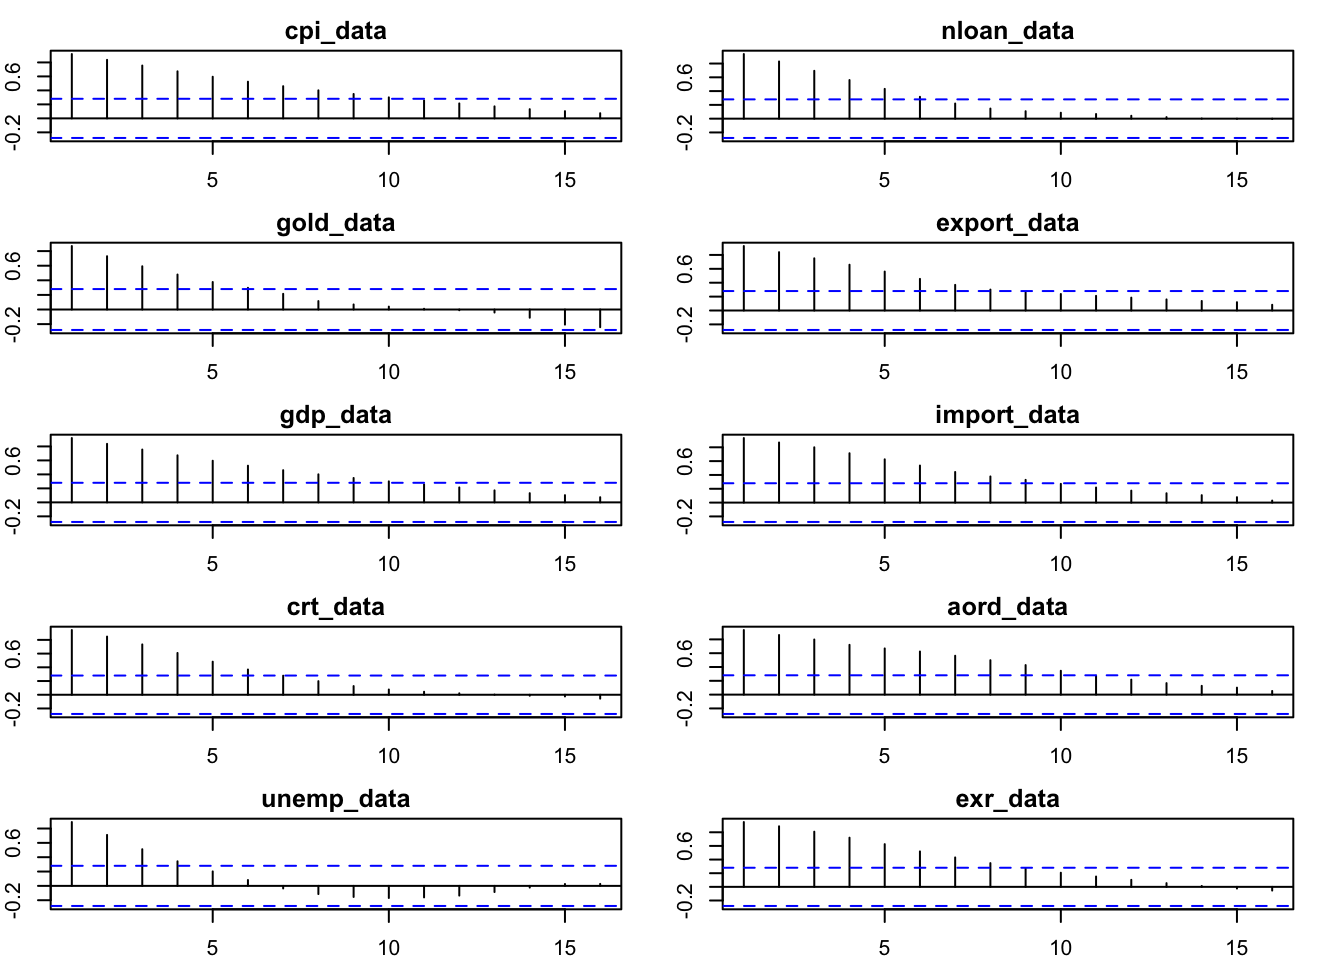
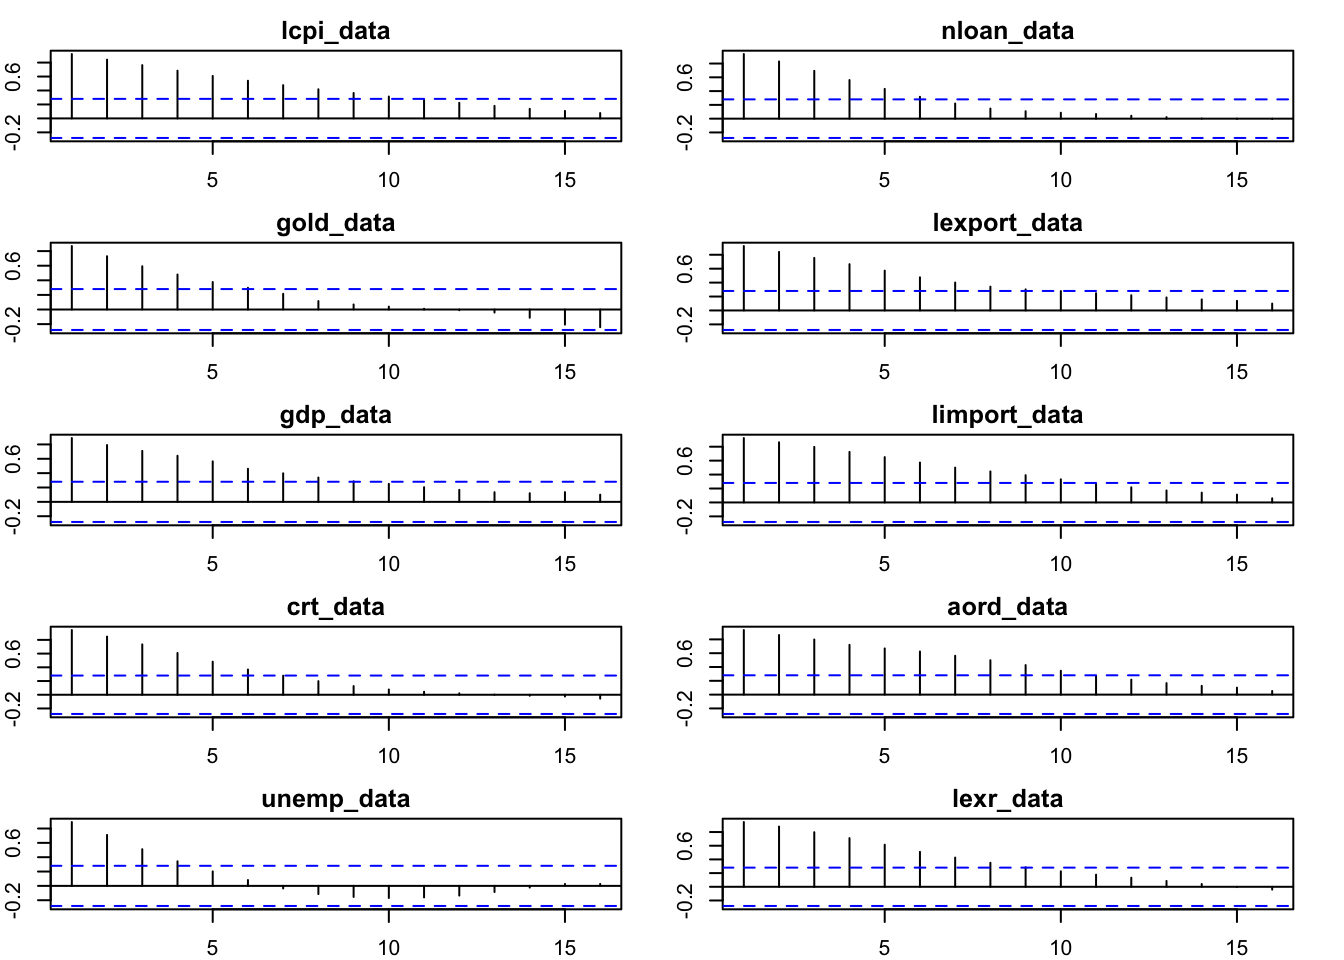
update website

diff --git a/docs/index.html b/docs/index.html
@@ -98,7 +98,11 @@ ul.task-list li input[type="checkbox"] {
   <li><a href="#introduction" id="toc-introduction" class="nav-link active" data-scroll-target="#introduction">Introduction</a>
   <ul class="collapse">
   <li><a href="#the-question-objective-and-motivation" id="toc-the-question-objective-and-motivation" class="nav-link" data-scroll-target="#the-question-objective-and-motivation">The question objective, and motivation</a></li>
-  <li><a href="#data-and-their-properties" id="toc-data-and-their-properties" class="nav-link" data-scroll-target="#data-and-their-properties">Data and their properties</a></li>
+  <li><a href="#data-and-their-properties" id="toc-data-and-their-properties" class="nav-link" data-scroll-target="#data-and-their-properties">Data and their properties</a>
+  <ul class="collapse">
+  <li><a href="#data-selection-and-rationale" id="toc-data-selection-and-rationale" class="nav-link" data-scroll-target="#data-selection-and-rationale">Data Selection and Rationale</a></li>
+  <li><a href="#data-transformation" id="toc-data-transformation" class="nav-link" data-scroll-target="#data-transformation">Data Transformation</a></li>
+  </ul></li>
   <li><a href="#the-model-and-hypothesis" id="toc-the-model-and-hypothesis" class="nav-link" data-scroll-target="#the-model-and-hypothesis">The model and hypothesis</a></li>
   <li><a href="#references" id="toc-references" class="nav-link" data-scroll-target="#references">References</a></li>
   </ul></li>
@@ -139,28 +143,38 @@ ul.task-list li input[type="checkbox"] {
 <h1>Introduction</h1>
 <section id="the-question-objective-and-motivation" class="level2">
 <h2 class="anchored" data-anchor-id="the-question-objective-and-motivation">The question objective, and motivation</h2>
-<p><strong>Objective: </strong></p>
+<p><strong>Objective:</strong></p>
 <p>The purpose of this research is to explore the trend in Australia’s inflation rate over the next two years.</p>
-<p><strong>Question: </strong></p>
+<p><strong>Question:</strong></p>
 <p>Will Australia’s inflation rate fall back to the 2-3% inflation target range in 2025, and will it reach 2.5% in 2026?</p>
 <p>The Reserve Bank of Australia (RBA) forecasts that inflation will fall back to the target range of 2% to 3% by 2025 and reach the midpoint of this range in 2026. The purpose of the study is to forecast inflation over the next two years and assess the reasonableness of the RBA’s forecast. This is because we have observed a sharp rise in inflation to 7.8% during COVID-19, and in response the RBA implemented tightening monetary policy and increased interest rates starting in late 2022. Entering mid-to-late 2023, the pace of interest rate increases has slowed down. This research will help determine whether the RBA correctly assumed that its monetary policy measures have effectively suppressed inflation and expected that inflation will fall back to the target range over the next year.</p>
 </section>
 <section id="data-and-their-properties" class="level2">
 <h2 class="anchored" data-anchor-id="data-and-their-properties">Data and their properties</h2>
-<p><strong>Data Selection and</strong></p>
-<p>Direct Inflationary Indicators:</p>
+<section id="data-selection-and-rationale" class="level3">
+<h3 class="anchored" data-anchor-id="data-selection-and-rationale">Data Selection and Rationale</h3>
+<ul>
+<li><p><strong>Direct Inflationary Indicators:</strong></p>
 <p>1.<span class="math inline">\(cpi_i\)</span>: Consumer Price Index (CPI): Direct measure of inflation (from ABS)</p>
-<p>2.<span class="math inline">\(gold_i\)</span>: Gold price, indicate inflationary expectations (from yahoo finance)</p>
-<p>Economic Activity and Policy Indicators:</p>
+<p>2.<span class="math inline">\(gold_i\)</span>: Gold price, indicate inflationary expectations (from yahoo finance)</p></li>
+<li><p><strong>Economic Activity and Policy Indicators:</strong></p>
 <p>3.<span class="math inline">\(gdp_i\)</span>: Gross Domestic Product (GDP), reflect economic growth and demand-pull inflation (from ABS)</p>
 <p>4.<span class="math inline">\(crt_i\)</span>: Cash rate target, Indicate monetary policy stance which affects inflation (from RBA)</p>
-<p>5.<span class="math inline">\(unemp_i\)</span>: Unemployment rate, indicate the level of slack in the labor market, influencing wage-push inflation (from ABS)</p>
-<p>Market and External Trade Indicators:</p>
+<p>5.<span class="math inline">\(unemp_i\)</span>: Unemployment rate, indicate the level of slack in the labor market, influencing wage-push inflation (from ABS)</p></li>
+<li><p><strong>Market and External Trade Indicators:</strong></p>
 <p>6.<span class="math inline">\(nloan_i\)</span>: New loan commitments, reflect credit growth which can fuel economic activity and inflation (from ABS)</p>
 <p>7.<span class="math inline">\(export_i\)</span>: International exports, affect trade balance and currency strength, influencing imported inflation (from ABS)</p>
 <p>8.<span class="math inline">\(import_i\)</span>: International imports: Directly affect inflation through the cost of imported goods (from ABS)</p>
 <p>9.<span class="math inline">\(aord_i\)</span>: All Ordinaries Index (AORD), reflects investor confidence and economic activity which can be pre-emptive indicators of inflation (from yahoo finance)</p>
-<p>10.<span class="math inline">\(exr_i\)</span>: AUD/USD exchange rate, affects the price of imports and exports, contributing to inflation (from yahoo finance)</p>
+<p>10.<span class="math inline">\(exr_i\)</span>: AUD/USD exchange rate, affects the price of imports and exports, contributing to inflation (from yahoo finance)</p></li>
+</ul>
+</section>
+<section id="data-transformation" class="level3">
+<h3 class="anchored" data-anchor-id="data-transformation">Data Transformation</h3>
+<ul>
+<li><strong>Log Transformation</strong></li>
+</ul>
+<p>Based on the line graph of the original data below (Figure 1), we can observe that exponentially growing variables need to be linearized, such as <span class="math inline">\(cpi_i\)</span>, <span class="math inline">\(export_i\)</span>, <span class="math inline">\(import_i\)</span>, <span class="math inline">\(exr_i\)</span>. Therefore, its logarithmically transformed form will be used in the following analysis.</p>
 <div class="cell" data-layout-align="center">
 <div class="cell-output-display">
 <div class="quarto-figure quarto-figure-center">
@@ -170,6 +184,11 @@ ul.task-list li input[type="checkbox"] {
 </div>
 </div>
 </div>
+<p>Figure 1 Line graph of original data</p>
+<ul>
+<li><strong>Integration transformation</strong></li>
+</ul>
+<p>According to ACF plot for all data (Figure 2), we can see all data with autocorrelation. It suggests that the series is not white noise and might not be stationary. In this case, applying a differencing operation, such as a first difference (single-order integration), can help remove the autocorrelation and achieve stationary.</p>
 <div class="cell" data-layout-align="center">
 <div class="cell-output-display">
 <div class="quarto-figure quarto-figure-center">
@@ -179,7 +198,14 @@ ul.task-list li input[type="checkbox"] {
 </div>
 </div>
 </div>
+<p>Figure 2 ACF Plot for all data</p>
+<p>Considering the selection of the order of single-order integration, the unit root test (ADF test) is used and the p value is used to determine its significance. A small p-value means the null hypothesis is rejected (non-stationary).</p>
+<p>According to Table 1, we can see that <span class="math inline">\(cpi_i\)</span>, <span class="math inline">\(crt_i\)</span>, <span class="math inline">\(nloan_i\)</span> and <span class="math inline">\(limport_i\)</span> require more than second-order integration, while <span class="math inline">\(gold_i\)</span>, <span class="math inline">\(unemp_i\)</span>, <span class="math inline">\(lexport_i\)</span> require sencond-order integration, other variables require first-order integration (under 10% level of confidence and n in the table means larger than 2).</p>
 <div class="cell" data-layout-align="center">
+<div class="cell-output cell-output-stdout">
+<pre><code>          
+0.2378902 </code></pre>
+</div>
 <div class="cell-output-display">
 <div class="table-responsive">
 <table class="table table-striped table-hover table-bordered table-sm small" data-quarto-postprocess="true">
@@ -194,74 +220,74 @@ ul.task-list li input[type="checkbox"] {
 </thead>
 <tbody>
 <tr class="odd">
-<td style="text-align: center;">cpi</td>
-<td style="text-align: center;">0.9900</td>
-<td style="text-align: center;">0.0910</td>
-<td style="text-align: center;">0.0100</td>
-<td style="text-align: center;">cpi~I(2)</td>
+<td style="text-align: center;">lcpi</td>
+<td style="text-align: center;">0.9328</td>
+<td style="text-align: center;">0.6733</td>
+<td style="text-align: center;">0.2018</td>
+<td style="text-align: center;">lcpi~I(n)</td>
 </tr>
 <tr class="even">
 <td style="text-align: center;">gold</td>
-<td style="text-align: center;">0.9072</td>
-<td style="text-align: center;">0.3109</td>
-<td style="text-align: center;">0.0161</td>
+<td style="text-align: center;">0.3959</td>
+<td style="text-align: center;">0.3375</td>
+<td style="text-align: center;">0.0862</td>
 <td style="text-align: center;">gold~I(2)</td>
 </tr>
 <tr class="odd">
 <td style="text-align: center;">gdp</td>
-<td style="text-align: center;">0.9900</td>
-<td style="text-align: center;">0.0910</td>
+<td style="text-align: center;">0.5625</td>
 <td style="text-align: center;">0.0100</td>
-<td style="text-align: center;">gdp~I(2)</td>
+<td style="text-align: center;">NA</td>
+<td style="text-align: center;">gdp~I(1)</td>
 </tr>
 <tr class="even">
 <td style="text-align: center;">crt</td>
-<td style="text-align: center;">0.5333</td>
-<td style="text-align: center;">0.0310</td>
-<td style="text-align: center;">NA</td>
-<td style="text-align: center;">crt~I(1)</td>
+<td style="text-align: center;">0.1132</td>
+<td style="text-align: center;">0.3419</td>
+<td style="text-align: center;">0.2553</td>
+<td style="text-align: center;">crt~I(n)</td>
 </tr>
 <tr class="odd">
 <td style="text-align: center;">unemp</td>
-<td style="text-align: center;">0.3190</td>
-<td style="text-align: center;">0.0100</td>
-<td style="text-align: center;">NA</td>
-<td style="text-align: center;">unemp~I(1)</td>
+<td style="text-align: center;">0.7376</td>
+<td style="text-align: center;">0.7392</td>
+<td style="text-align: center;">0.0196</td>
+<td style="text-align: center;">unemp~I(2)</td>
 </tr>
 <tr class="even">
 <td style="text-align: center;">nloan</td>
-<td style="text-align: center;">0.3523</td>
-<td style="text-align: center;">0.0100</td>
-<td style="text-align: center;">NA</td>
-<td style="text-align: center;">nloan~I(1)</td>
+<td style="text-align: center;">0.9536</td>
+<td style="text-align: center;">0.5166</td>
+<td style="text-align: center;">0.1664</td>
+<td style="text-align: center;">nloan~I(n)</td>
 </tr>
 <tr class="odd">
-<td style="text-align: center;">export</td>
+<td style="text-align: center;">lexport</td>
+<td style="text-align: center;">0.9798</td>
 <td style="text-align: center;">0.9900</td>
-<td style="text-align: center;">0.0249</td>
-<td style="text-align: center;">NA</td>
-<td style="text-align: center;">export~I(1)</td>
+<td style="text-align: center;">0.0892</td>
+<td style="text-align: center;">lexport~I(2)</td>
 </tr>
 <tr class="even">
-<td style="text-align: center;">import</td>
-<td style="text-align: center;">0.9900</td>
-<td style="text-align: center;">0.0380</td>
-<td style="text-align: center;">NA</td>
-<td style="text-align: center;">import~I(1)</td>
+<td style="text-align: center;">limport</td>
+<td style="text-align: center;">0.6601</td>
+<td style="text-align: center;">0.6736</td>
+<td style="text-align: center;">0.2379</td>
+<td style="text-align: center;">limport~I(n)</td>
 </tr>
 <tr class="odd">
 <td style="text-align: center;">aord</td>
-<td style="text-align: center;">0.9900</td>
-<td style="text-align: center;">0.2665</td>
-<td style="text-align: center;">0.0100</td>
-<td style="text-align: center;">aord~I(2)</td>
+<td style="text-align: center;">0.8289</td>
+<td style="text-align: center;">0.0169</td>
+<td style="text-align: center;">NA</td>
+<td style="text-align: center;">aord~I(1)</td>
 </tr>
 <tr class="even">
-<td style="text-align: center;">exr</td>
-<td style="text-align: center;">0.1342</td>
-<td style="text-align: center;">0.0889</td>
-<td style="text-align: center;">0.0100</td>
-<td style="text-align: center;">exr~I(2)</td>
+<td style="text-align: center;">lexr</td>
+<td style="text-align: center;">0.8915</td>
+<td style="text-align: center;">0.0473</td>
+<td style="text-align: center;">NA</td>
+<td style="text-align: center;">lexr~I(1)</td>
 </tr>
 </tbody>
 </table>
@@ -270,6 +296,9 @@ ul.task-list li input[type="checkbox"] {
 
 </div>
 </div>
+<p>Table 1 Unit root test for all data</p>
+<p>Since the second-order difference may remove part of the long-term information (such as trends) in the data, this may be detrimental to time series data such as <span class="math inline">\(cpi_i\)</span> and <span class="math inline">\(crt_i\)</span> that contain important trend information. Therefore, only first-order differences are used for all data.</p>
+</section>
 </section>
 <section id="the-model-and-hypothesis" class="level2">
 <h2 class="anchored" data-anchor-id="the-model-and-hypothesis">The model and hypothesis</h2>
